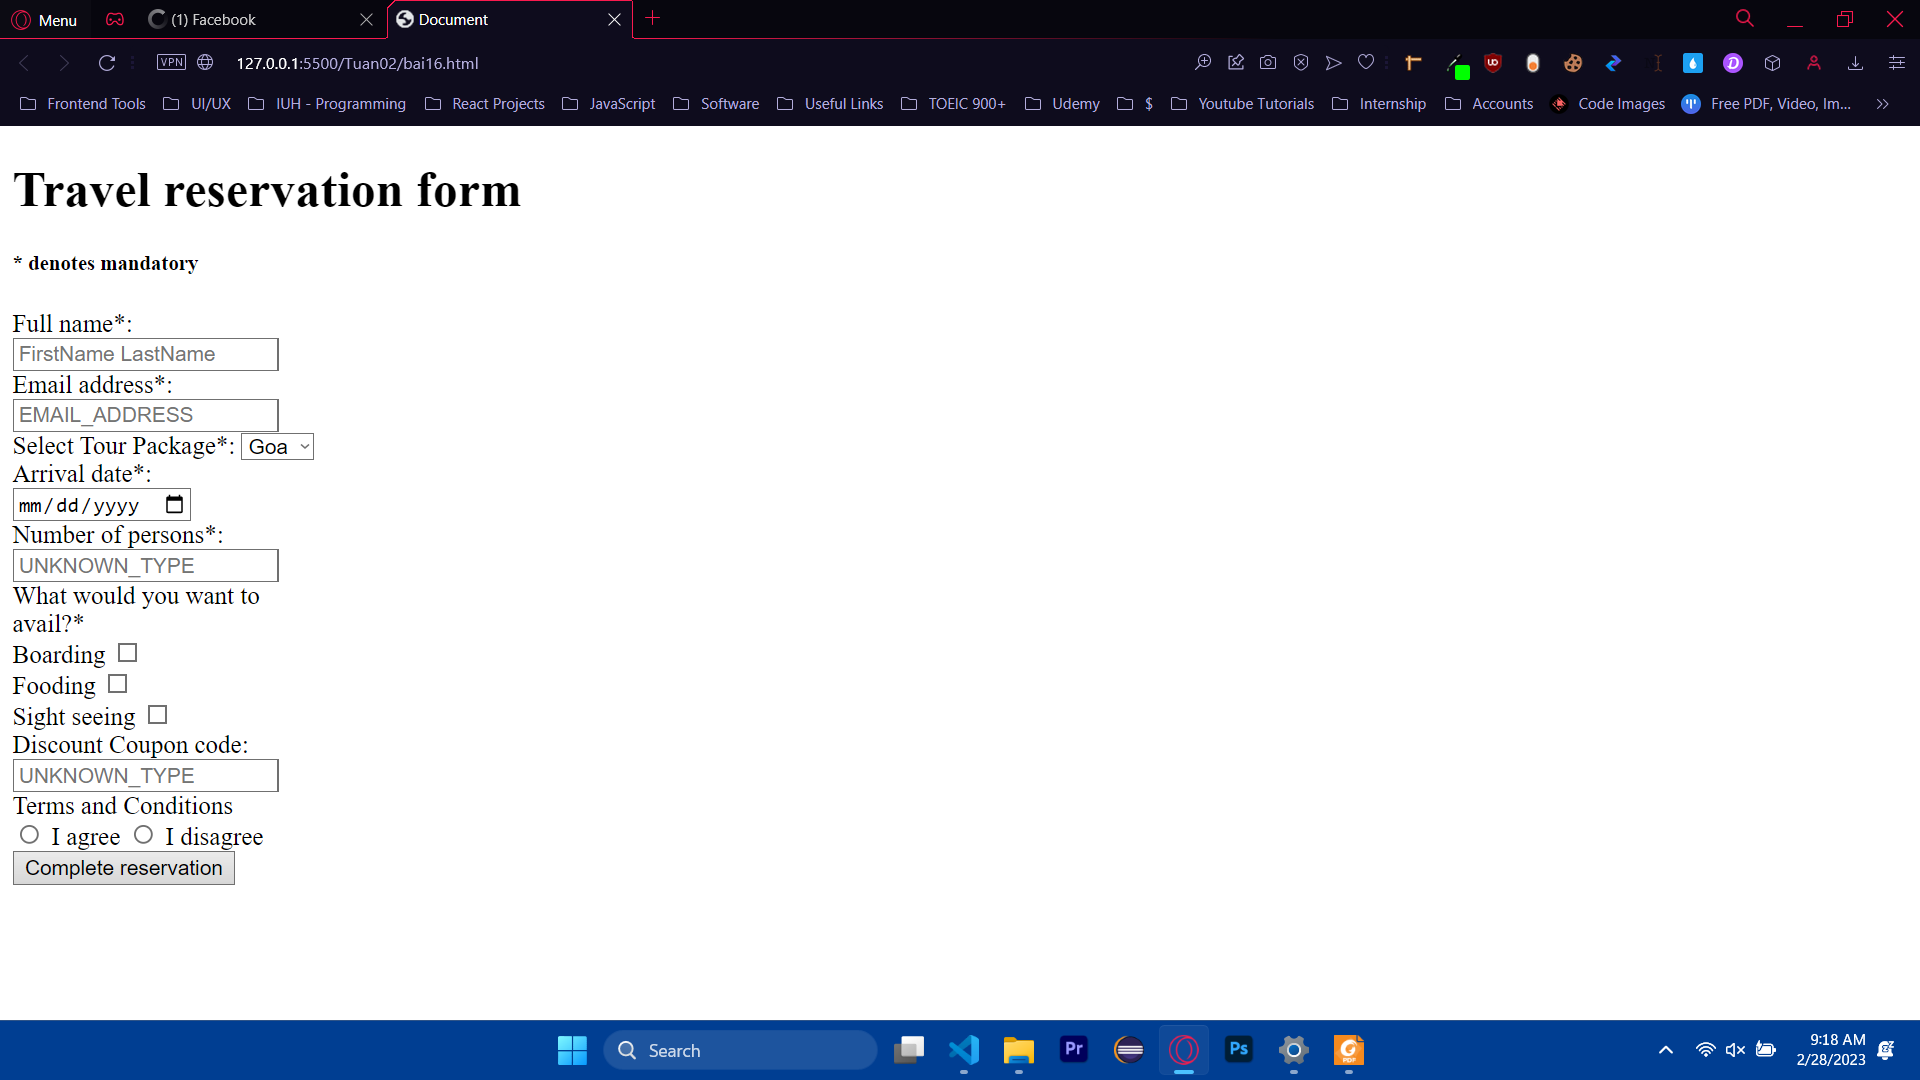
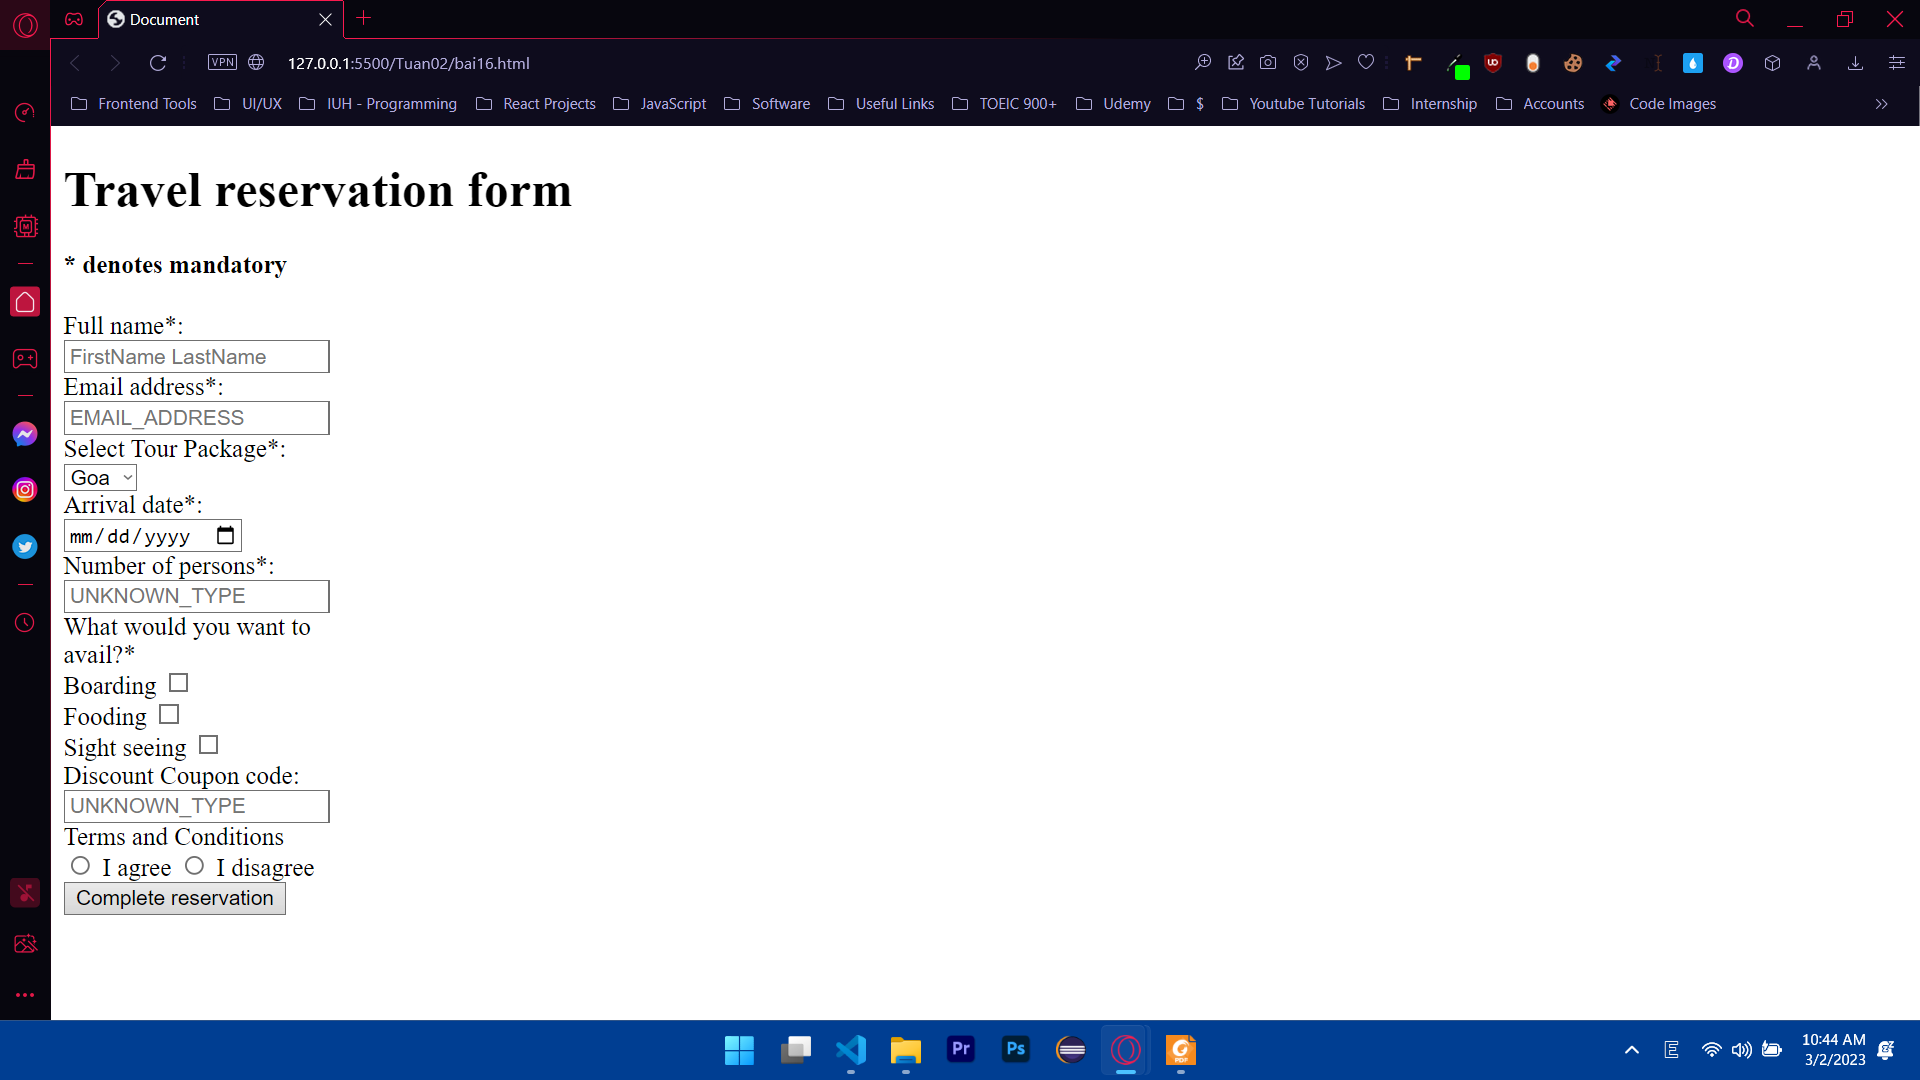
modified bai16, added bai17a

diff --git a/Tuan02/bai17a.html b/Tuan02/bai17a.html
@@ -1,0 +1,167 @@
+<!DOCTYPE html>
+<html lang="en">
+  <head>
+    <meta charset="UTF-8" />
+    <meta http-equiv="X-UA-Compatible" content="IE=edge" />
+    <meta name="viewport" content="width=device-width, initial-scale=1.0" />
+    <style>
+      body {
+        font-family: Arial, Helvetica, sans-serif;
+      }
+
+      form {
+        background-color: #ffd078;
+      }
+
+      h2 {
+        text-align: center;
+      }
+
+      li {
+        margin-bottom: 15px;
+      }
+
+      .btns {
+        display: flex;
+        justify-content: center;
+        gap: 40px;
+      }
+    </style>
+    <title>Document</title>
+  </head>
+  <body>
+    <form>
+      <h2>Survey Form</h2>
+      <p>
+        If you are interested in purchasing one or more of our products, before
+        ordering please complete some or all of the following survey for our
+        marketing department. Answering any question is optional, and all
+        information will be kept strictly confidential. Thank you very much for
+        your time!
+      </p>
+
+      <ol>
+        <li>
+          <label for="name">What is your name:</label> <br />
+          <input type="text" id="name" name="name" size="30" />
+        </li>
+        <li>
+          <label for="dob">What is your date of birth:</label> <br />
+          <label for="month">Month: </label>
+          <select name="month" id="month">
+            <option value="1">January</option>
+            <option value="2">February</option>
+            <option value="3">March</option>
+            <option value="4">April</option>
+            <option value="5">May</option>
+            <option value="6">June</option>
+            <option value="7">July</option>
+            <option value="8">August</option>
+            <option value="9">September</option>
+            <option value="10">October</option>
+            <option value="11">November</option>
+            <option value="12">December</option>
+          </select>
+          <label for="day">Date: </label>
+          <select name="day" id="day">
+            <option value="1">1</option>
+            <option value="2">2</option>
+            <option value="3">3</option>
+            <option value="4">4</option>
+            <option value="5">5</option>
+            <option value="6">6</option>
+            <option value="7">7</option>
+            <option value="8">8</option>
+            <option value="9">9</option>
+            <option value="10">10</option>
+            <option value="11">11</option>
+            <option value="12">12</option>
+            <option value="13">13</option>
+            <option value="14">14</option>
+            <option value="15">15</option>
+            <option value="16">16</option>
+            <option value="17">17</option>
+            <option value="18">18</option>
+            <option value="19">19</option>
+            <option value="20">20</option>
+            <option value="21">21</option>
+            <option value="22">22</option>
+            <option value="23">23</option>
+            <option value="24">24</option>
+            <option value="25">25</option>
+            <option value="26">26</option>
+            <option value="27">27</option>
+            <option value="28">28</option>
+            <option value="29">29</option>
+            <option value="30">30</option>
+            <option value="31">31</option>
+          </select>
+          <label for="year">Year: </label>
+          <input type="text" id="year" name="year" size="3" />
+        </li>
+        <li>
+          <label for="mailing-address"
+            >What is your mailing address (if you would like to have a hard copy
+            of our catalog sent to you)?</label
+          >
+          <br />
+          <textarea
+            name="mailing-address"
+            id="mailing-address"
+            cols="50"
+            rows="4"
+          >
+Number/P.O. Box/Route:
+Street/Avenue/Road:
+City:
+State/Zip:</textarea
+          >
+        </li>
+        <li>
+          <label for="email">What is your email address?</label> <br />
+          <input type="email" id="email" name="email" size="30" />
+        </li>
+        <li>
+          <label for="view">Have you viewed our online product catalog?</label>
+          <br />
+          <input type="radio" id="yes" name="view" value="yes" />
+          <label for="yes">Yes</label>
+          <input type="radio" id="no" name="view" value="no" />
+          <label for="no">No</label>
+        </li>
+        <li>
+          <label for="catalog"
+            >If so, what product(s), besides the one you are ordering, might you
+            be interested in purchasing in the future? (Check all that
+            apply.)</label
+          >
+          <br />
+          <input type="checkbox" id="catalog" name="catalog" value="vcr" />
+          <label for="vcr">VCR</label><br />
+          <input type="checkbox" id="catalog" name="catalog" value="tv" />
+          <label for="tv">Big Screen TV</label><br />
+          <input type="checkbox" id="catalog" name="catalog" value="audio" />
+          <label for="audio">Audio Equipment</label><br />
+          <input type="checkbox" id="catalog" name="catalog" value="video" />
+          <label for="video">Video Equipment</label><br />
+          <input type="checkbox" id="catalog" name="catalog" value="other" />
+          <label for="other">Other</label>
+          <input type="text" placeholder="Please List:" />
+          <br />
+        </li>
+        <li>
+          <label for="comments"
+            >Do you have any questions, comments or suggestions before
+            proceeding to the Other Form?</label
+          >
+          <br />
+          <textarea name="comments" id="comments" cols="50" rows="4"></textarea>
+        </li>
+      </ol>
+      <div class="btns">
+        <button>Send form</button>
+        <button>Clear form</button>
+      </div>
+    </form>
+  </body>
+</html>

diff --git a/Tuan02/bai16.html b/Tuan02/bai16.html
@@ -13,7 +13,7 @@
   </head>
   <body>
     <h1>Travel reservation form</h1>
-    <h5>* denotes mandatory</h5>
+    <h4>* denotes mandatory</h4>
 
     <form>
       <div>
@@ -31,7 +31,7 @@
         />
       </div>
       <div>
-        <label for="tour-select">Select Tour Package*: </label>
+        <label for="tour-select">Select Tour Package*: </label> <br />
         <select name="tour-select" id="tour-select">
           <option value="1">Goa</option>
           <option value="2">One</option>
@@ -68,9 +68,9 @@
       <div>
         <label for="terms">Terms and Conditions</label>
         <div>
-          <input type="radio" name="agree" id="rad" />
+          <input type="radio" name="agree" id="rad" value="I agree" />
           <label for="agree">I agree</label>
-          <input type="radio" name="disagree" id="" />
+          <input type="radio" name="agree" id="rad" value="I disagree" />
           <label for="disagree">I disagree</label>
         </div>
       </div>
